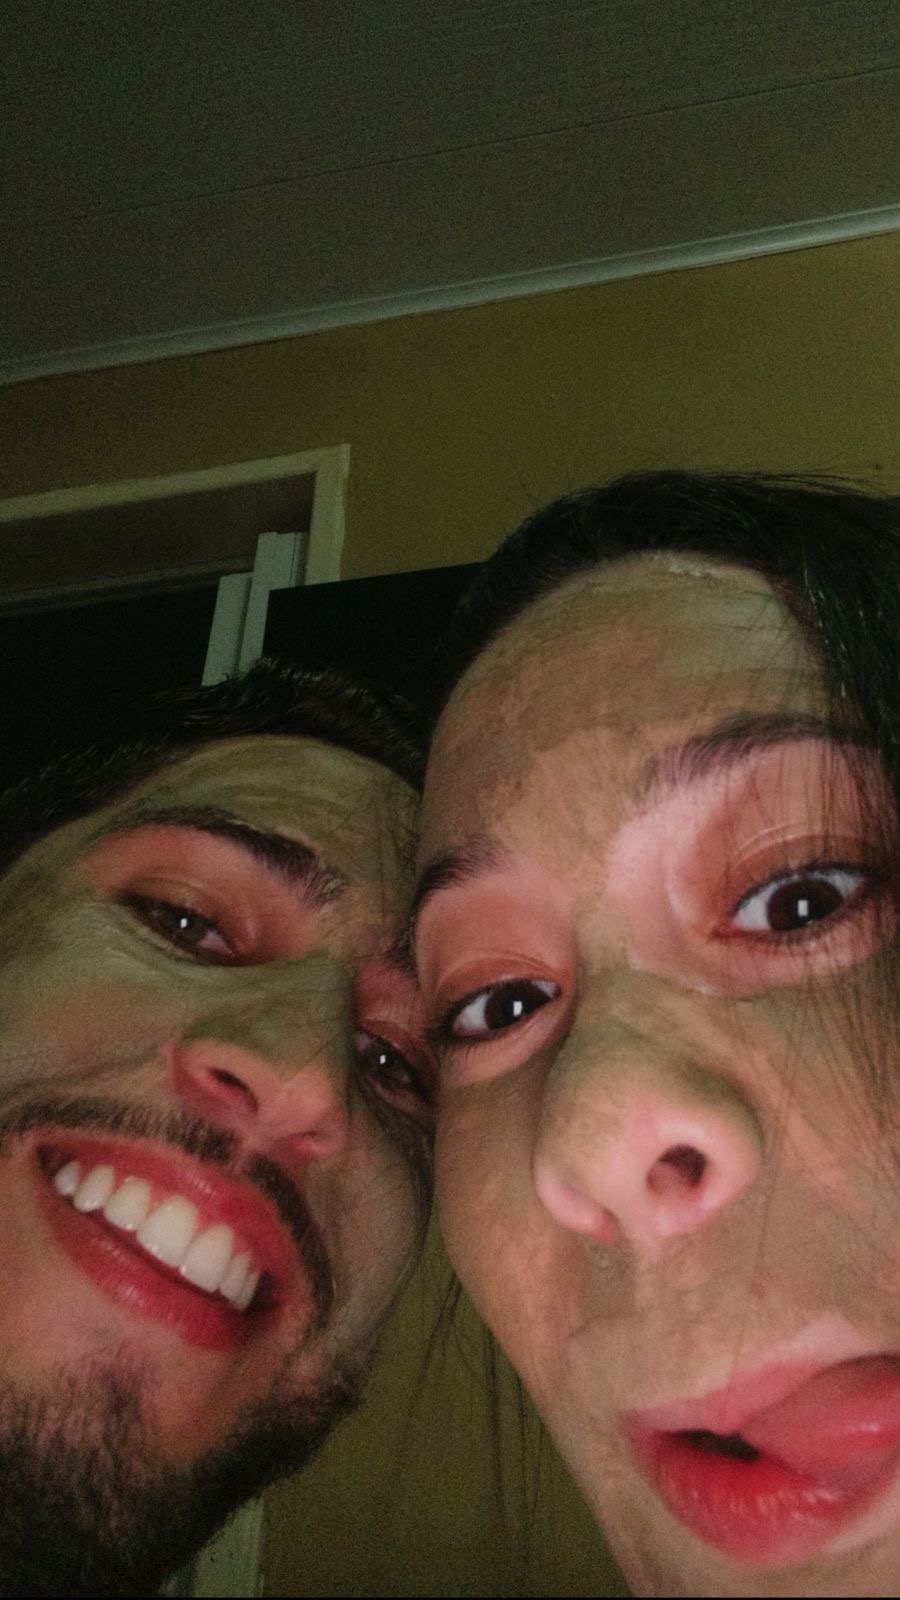
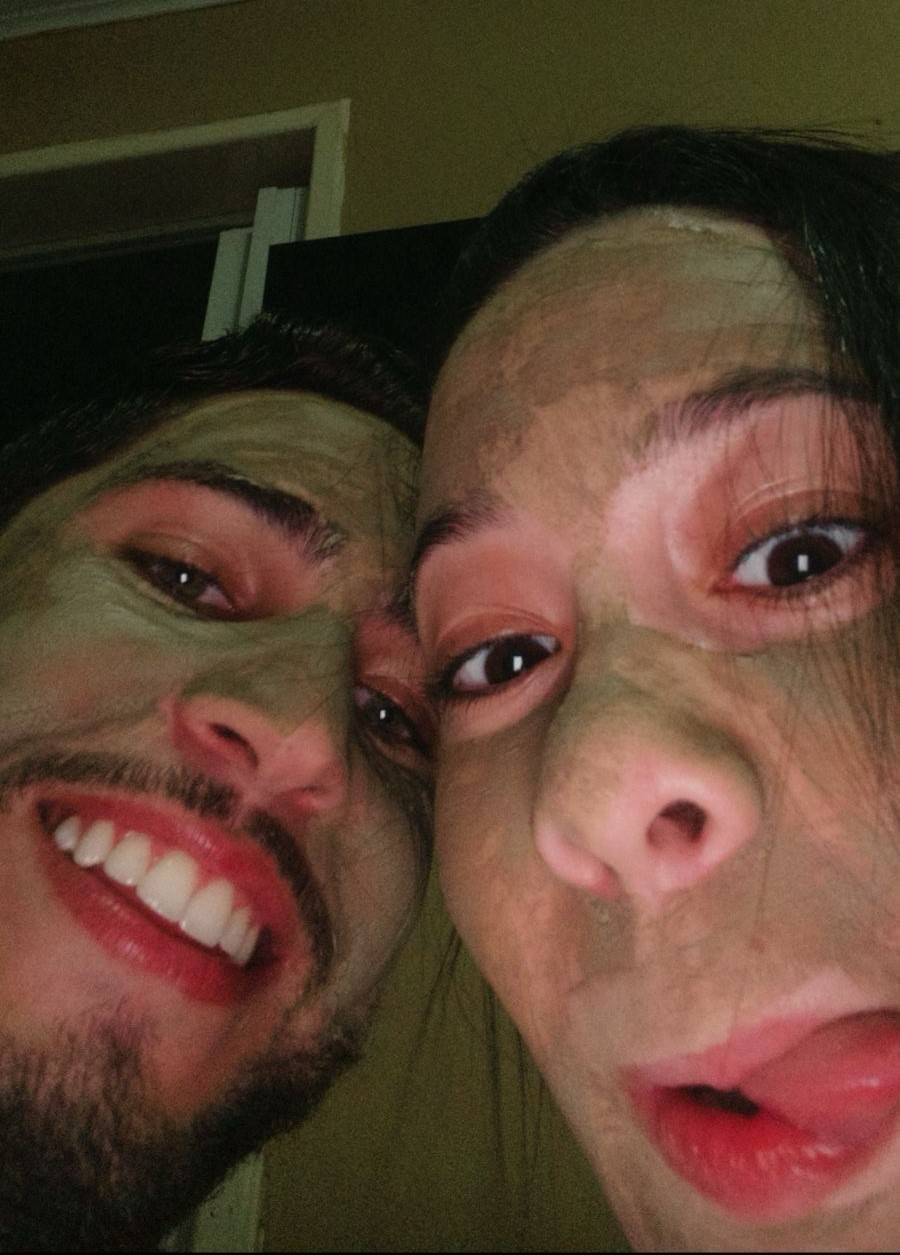
adjusts finals

diff --git a/index.html b/index.html
@@ -72,7 +72,7 @@
             <div class="timeline-item right">
                 <div class="content">
                     <img src="img/viagem.jpg" alt="Viagem">
-                    <div class="text-group"> <span class="date">06/07/2025</span> <p>Nossa primeira viagem juntos.</p> </div>
+                    <div class="text-group"> <span class="date">06/07/2025</span> <p>Primeira viagem juntos.</p> </div>
                 </div>
             </div>
             <div class="timeline-item right">
@@ -83,8 +83,20 @@
             </div>
             <div class="timeline-item right">
                 <div class="content">
+                    <img src="img/cadeira.jpg" alt="Cadeira na praia">
+                    <div class="text-group"> <span class="date">14/12/2025</span> <p>Cadeira gigante.</p> </div>
+                </div>
+            </div>
+            <div class="timeline-item right">
+                <div class="content">
                     <img src="img/maos-dadas.jpeg" alt="Maos dadas na praia">
-                    <div class="text-group"> <span class="date">10/10/2025</span> <p>Juntos na praia.</p> </div>
+                    <div class="text-group"> <span class="date">03/01/2026</span> <p>Juntos na praia.</p> </div>
+                </div>
+            </div>
+            <div class="timeline-item right">
+                <div class="content">
+                    <img src="img/skin-care.JPG" alt="Skin care">
+                    <div class="text-group"> <span class="date">28/03/2026</span> <p>Skin care.</p> </div>
                 </div>
             </div>
         </div>

diff --git a/script.js b/script.js
@@ -178,10 +178,15 @@ updateCounter();
 // --- LÓGICA DO GERADOR DE MOTIVOS ---
 const reasons = [
     "Seu jeitinho calmo.",
-    "É Master Chef.",
     "É linda e bem feita que Deus benza.",
-    "O seu abraço é o meu lugar favorito.",
-    "Como você faz até os dias comuns parecerem especiais."
+    "Me aconselha e me apoia.",
+    "Tem um coração generoso.",
+    "Ama animais.",
+    "Tem o sorriso mais lindo das galáxias.",
+    "Tem visão de futuro.",
+    "Muito educada e inteligente.",
+    "Respeita nosso relacionamento.",
+    "Com você faz até os dias comuns parecerem especiais."
 ];
 
 const reasonBtn = document.getElementById('reason-btn');
@@ -189,7 +194,7 @@ const reasonText = document.getElementById('reason-text');
 
 reasonBtn.addEventListener('click', () => {
     const randomReason = reasons[Math.floor(Math.random() * reasons.length)];
-    reasonText.textContent = `"${randomReason}"`;
+    reasonText.textContent = `${randomReason}`;
 });
 
 // --- LÓGICA DO NOVO SLIDESHOW (Pilha 3D) ---
